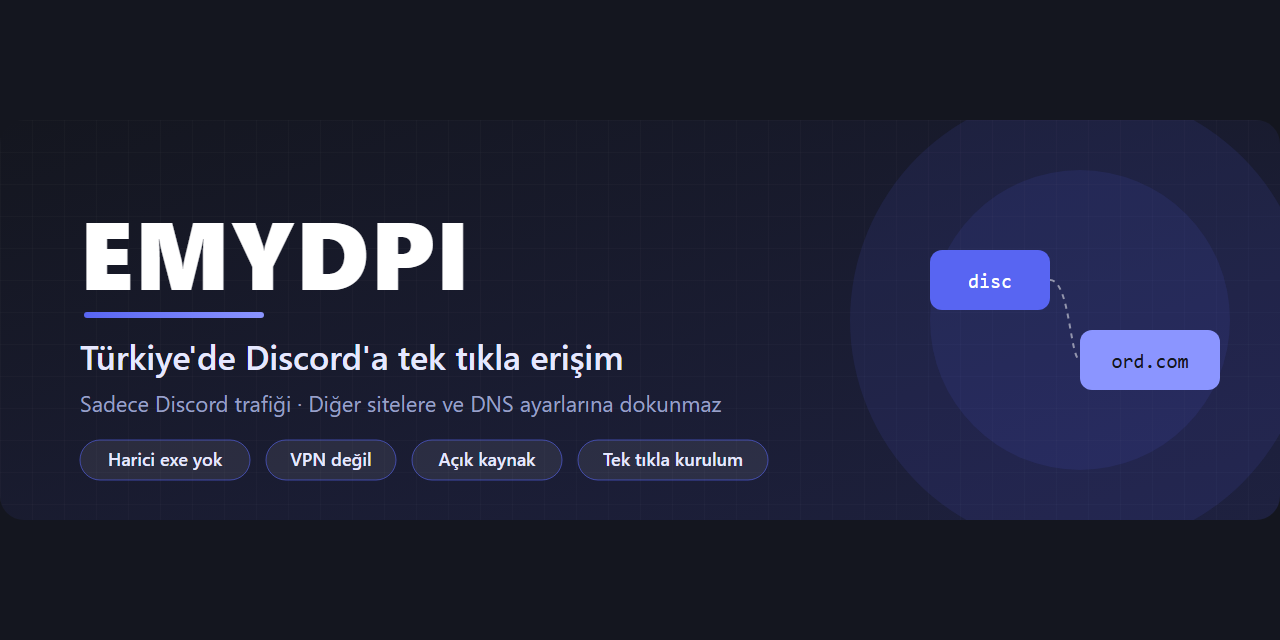
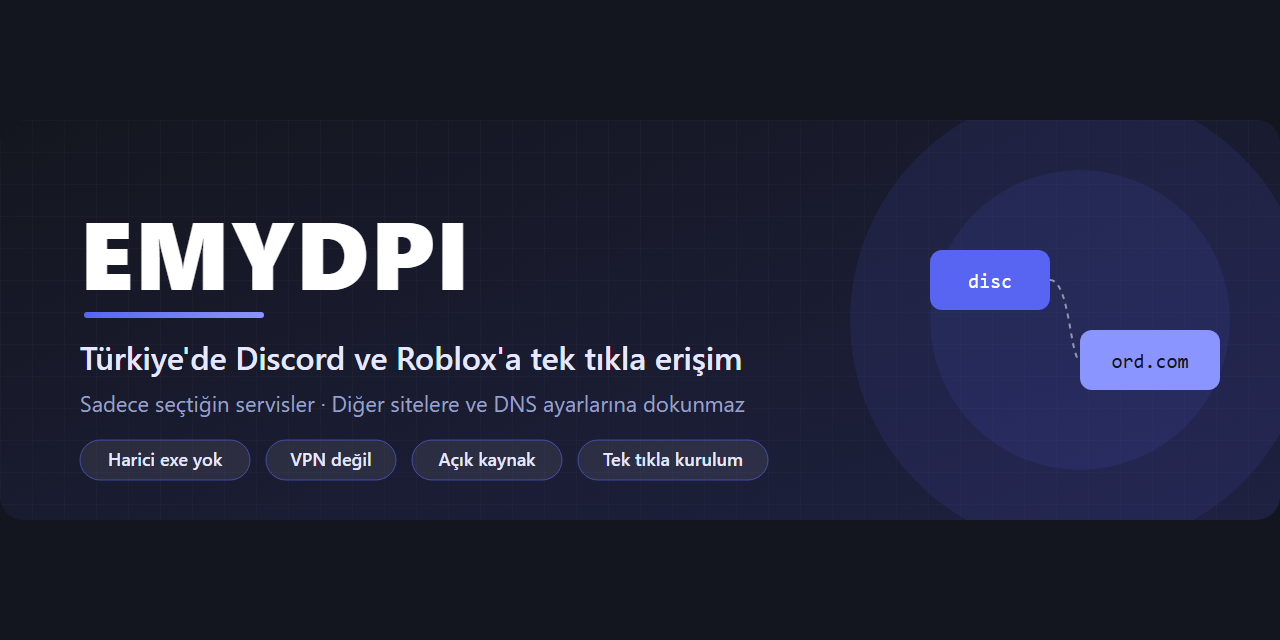
v1.1.0: Roblox destegi ve servis secimi
- Roblox alan adlari (62) eklendi; Roblox da SNI ile engellendigi icin
  ayni proxy yontemi calisiyor (60/62 adres proxy uzerinden test edildi,
  kalan 2'si sunucu sertifikasi kaynakli, engelle ilgisiz)
- [7] Servis sec: Discord + Roblox / sadece Discord / sadece Roblox
- Kurulu servisler hosts blogunda saklaniyor, durum ekraninda gosteriliyor
- README, gorseller ve CHANGELOG guncellendi

Changed region(s): [[0.0625, 0.5312, 0.5938, 0.6562]]

diff --git a/README.md b/README.md
@@ -1,5 +1,5 @@
 <p align="center">
-  <img src="assets/banner.svg" alt="EMYDPI: Türkiye'de Discord'a tek tıkla erişim" width="100%">
+  <img src="assets/banner.svg" alt="EMYDPI: Türkiye'de Discord ve Roblox'a tek tıkla erişim" width="100%">
 </p>
 
 <p align="center">
@@ -11,6 +11,11 @@
 </p>
 
 <p align="center">
+  <img src="https://img.shields.io/badge/Discord-%E2%9C%93-5865F2?style=flat-square&logo=discord&logoColor=white" alt="Discord">
+  <img src="https://img.shields.io/badge/Roblox-%E2%9C%93-000000?style=flat-square&logo=roblox&logoColor=white" alt="Roblox">
+</p>
+
+<p align="center">
   <a href="https://github.com/yigitislamoglu/EMYDPI/releases/latest/download/EMYDPI.zip">
     <img src="https://img.shields.io/badge/%E2%AC%87%20%C4%B0ND%C4%B0R-EMYDPI.zip-5865F2?style=for-the-badge" alt="İndir" height="42">
   </a>
@@ -18,15 +23,16 @@
 
 ---
 
-**EMYDPI**, Türkiye'deki Discord engelini aşmak için yazılmış küçük ve açık kaynaklı bir araçtır. Sadece Discord
-trafiğini etkiler; diğer sitelere, DNS ayarlarına ve internet hızına dokunmaz.
+**EMYDPI**, Türkiye'deki **Discord** ve **Roblox** engellerini aşmak için yazılmış küçük ve açık kaynaklı bir araçtır.
+Sadece seçtiğin servislerin trafiğini etkiler; diğer sitelere, DNS ayarlarına ve internet hızına dokunmaz.
 
 | | |
 |---|---|
+| 🎮 **Discord + Roblox** | İkisi birden ya da sadece biri. Kurulumda sen seçersin. |
 | 🧩 **Harici dosya yok** | `.exe`, `.dll`, sürücü yok. Sadece Windows'ta zaten bulunan PowerShell; tüm kod açık ve okunabilir. |
-| 🔒 **VPN değil** | Trafiğin başka bir sunucuya gitmez, doğrudan Discord'a bağlanırsın. Gecikme artmaz. |
-| 🎯 **Sadece Discord** | Yalnızca Discord alan adları yönlendirilir, geri kalan her şey normal yolundan gider. |
-| 🛡 **Discord'a dokunmaz** | DLL enjekte etmez, Discord'un dosyalarını değiştirmez. Discord güncellemeleri sorun çıkarmaz. |
+| 🔒 **VPN değil** | Trafiğin başka bir sunucuya gitmez, doğrudan Discord'a / Roblox'a bağlanırsın. Ping artmaz. |
+| 🎯 **Sadece seçtiğin servisler** | Yalnızca o servislerin alan adları yönlendirilir, geri kalan her şey normal yolundan gider. |
+| 🛡 **Uygulamalara dokunmaz** | DLL enjekte etmez, Discord'un veya Roblox'un dosyalarını değiştirmez. Güncellemeler sorun çıkarmaz. |
 | ⚡ **Kur ve unut** | Bilgisayar her açıldığında arka planda, pencere açmadan kendiliğinden çalışır. |
 
 ## 🚀 Kurulum
@@ -34,9 +40,10 @@ trafiğini etkiler; diğer sitelere, DNS ayarlarına ve internet hızına dokunm
 1. **[EMYDPI.zip](https://github.com/yigitislamoglu/EMYDPI/releases/latest/download/EMYDPI.zip)** dosyasını indir
    ve bir klasöre çıkar (örneğin `Belgeler\EMYDPI`).
 2. `EMYDPI.bat` dosyasına çift tıkla, yönetici iznine **Evet** de.
-3. Menüden **`[1] Kur / Onar`** seç.
+3. Menüden **`[1] Kur / Onar`** seç. Discord ve Roblox birlikte kurulur.
+   Sadece birini istiyorsan **`[7] Servis seç`** kullan.
 
-Hepsi bu. Discord kendiliğinden yeniden açılır ve bağlanır. 🎉
+Hepsi bu. Discord kendiliğinden yeniden açılır; Roblox'u da normal şekilde açabilirsin. 🎉
 
 <p align="center">
   <img src="assets/menu.svg" alt="EMYDPI menüsü" width="640">
@@ -49,18 +56,25 @@ Hepsi bu. Discord kendiliğinden yeniden açılır ve bağlanır. 🎉
 > [!WARNING]
 > **Kaspersky vb. antivirüs kullanıyorsan:** kurulum Windows'un `hosts` dosyasına birkaç satır ekler. Bazı
 > antivirüsler bu dosyayı korur ve **"hosts dosyasına yazma ENGELLENDİ"** hatası görürsün. Antivirüsü birkaç
-> dakikalığına duraklat, `[1]`'i tekrar çalıştır, sonra antivirüsü geri aç. Bu sadece kurulum ve kaldırmada gerekir.
+> dakikalığına duraklat, kurulumu tekrar çalıştır, sonra antivirüsü geri aç. Bu sadece kurulum, servis değiştirme ve
+> kaldırmada gerekir.
+
+### v1.0.0'dan güncelliyorsan
+
+Yeni ZIP'i **aynı klasöre** çıkarıp dosyaların üzerine yaz. Sonra `EMYDPI.bat` → **`[7] Servis seç`** →
+**`[1] Discord + Roblox`** seç. (`[1] Kur / Onar` mevcut ayarını korur, yani sadece Discord kalır.)
 
 ## 📋 Menü
 
 | Seçenek | Ne yapar |
 |---|---|
-| `[1] Kur / Onar` | hosts kayıtlarını ekler, proxy'yi başlatır, açılışta otomatik çalışmayı ayarlar |
+| `[1] Kur / Onar` | hosts kayıtlarını ekler, proxy'yi başlatır, açılışta otomatik çalışmayı ayarlar. Mevcut servis seçimini korur; ilk kurulumda Discord + Roblox |
 | `[2] Tamamen kaldır` | Her şeyi geri alır: proxy, otomatik başlatma, hosts kayıtları |
 | `[3] Proxy'yi başlat` | Proxy'yi (yeniden) başlatır, Discord'u yeniden açar |
 | `[4] Proxy'yi durdur` | Proxy'yi durdurur (kurulum kalır) |
 | `[5] Log göster` | Son bağlantı kayıtlarını gösterir |
 | `[6] Yedek mod ile kur` | `[1]` işe yaramazsa farklı bir atlatma yöntemiyle kurar |
+| `[7] Servis seç` | Discord + Roblox / sadece Discord / sadece Roblox |
 
 ## 🔍 Nasıl çalışıyor?
 
@@ -68,16 +82,13 @@ Hepsi bu. Discord kendiliğinden yeniden açılır ve bağlanır. 🎉
   <img src="assets/flow.svg" alt="EMYDPI çalışma şeması" width="100%">
 </p>
 
-Türkiye'deki Discord engeli iki katmanlıdır:
+Türkiye'deki engeller **DPI / SNI** tabanlıdır. HTTPS bağlantısı başlarken, gidilmek istenen sitenin adı (SNI)
+şifrelenmemiş olarak gönderilir. Operatör bu paketi okur, içinde `discord.com` veya `roblox.com` görürse bağlantıyı
+keser. Discord'da buna ek olarak DNS engeli de vardır. Bu yüzden sadece DNS'i değiştirmek **yetmez**.
 
-1. **DNS engeli:** Operatörün DNS sunucusu Discord için yanlış adres döndürür.
-2. **DPI / SNI engeli:** HTTPS bağlantısı başlarken, gidilmek istenen sitenin adı (SNI) şifrelenmemiş olarak
-   gönderilir. Operatör bu paketi okur, içinde `discord.com` görürse bağlantıyı keser. Bu yüzden sadece DNS'i
-   değiştirmek **yetmez**.
+EMYDPI şöyle aşar:
 
-EMYDPI ikisini birden aşar:
-
-1. `hosts` dosyası Discord alan adlarını bilgisayarın kendisine (`127.0.0.1`) yönlendirir.
+1. `hosts` dosyası seçilen servislerin alan adlarını bilgisayarın kendisine (`127.0.0.1`) yönlendirir.
 2. Yerel **EMYDPI proxy** bağlantıyı karşılar ve gerçek IP'yi **şifreli DNS (DoH)** ile bulur (1.1.1.1 / 8.8.8.8).
 3. TLS **ClientHello** paketini alan adının ortasından **iki ayrı TLS kaydına** böler ve ayrı paketlerle gönderir.
    DPI alan adının tamamını göremediği için bağlantıyı kesmez.
@@ -85,13 +96,17 @@ EMYDPI ikisini birden aşar:
 Şifreli trafik **çözülmez veya değiştirilmez**; proxy sadece ilk paketi böler, gerisini olduğu gibi aktarır.
 Bu yüzden sertifika kurulumu da gerekmez.
 
+> [!NOTE]
+> **Roblox oyun sunucuları** (oyun içi bağlantı) UDP ile doğrudan IP'ye bağlanır ve şu an engelli değildir; proxy'den
+> geçmesine gerek yoktur. EMYDPI Roblox'un giriş, site, API ve oyuna katılma bağlantılarını açar.
+
 <details>
 <summary><b>Dosyalar ve sisteme yapılan değişiklikler</b></summary>
 
 | Dosya | Görev |
 |---|---|
 | [`EMYDPI.bat`](EMYDPI.bat) | Menü, yönetici izni ister |
-| [`emydpi.ps1`](emydpi.ps1) | Kurulum/kaldırma, hosts ve zamanlanmış görev yönetimi |
+| [`emydpi.ps1`](emydpi.ps1) | Kurulum/kaldırma, servis listeleri, hosts ve zamanlanmış görev yönetimi |
 | [`emydpi-proxy.cs`](emydpi-proxy.cs) | Proxy'nin kendisi (C#, çalışırken PowerShell tarafından derlenir) |
 | [`emydpi-proxy.ps1`](emydpi-proxy.ps1) | Proxy'yi derleyip başlatır |
 
@@ -104,8 +119,14 @@ Bu yüzden sertifika kurulumu da gerekmez.
 
 `[2] Tamamen kaldır` bunların hepsini geri alır.
 
-**Yönlendirilen alan adları:** `discord.com`, `discord.gg`, `discordapp.com`, `discordapp.net`, `discord.media`,
-`discordcdn.com` ve bunların alt alan adları. Tam liste [`emydpi.ps1`](emydpi.ps1) içindedir.
+**Yönlendirilen alan adları:**
+
+- **Discord:** `discord.com`, `discord.gg`, `discordapp.com`, `discordapp.net`, `discord.media`, `discordcdn.com`
+  ve alt alan adları (26 adres)
+- **Roblox:** `roblox.com`, `www.roblox.com`, `apis.roblox.com`, `auth.roblox.com`, `gamejoin.roblox.com`,
+  `assetdelivery.roblox.com` ve diğer API adresleri (62 adres). `rbxcdn.com` engelli olmadığı için eklenmez.
+
+Tam liste [`emydpi.ps1`](emydpi.ps1) içindedir.
 
 </details>
 
@@ -119,6 +140,16 @@ Hiç satır yoksa `[3] Proxy'yi başlat`'ı dene.
 </details>
 
 <details>
+<summary><b>Roblox açılmıyor veya oyuna girmiyor</b></summary>
+
+1. `[5] Log göster`'de `roblox.com` satırları görünüyor mu bak. Görünmüyorsa `[7] Servis seç` ile Roblox'un kurulu
+   olduğundan emin ol.
+2. Roblox'u görev yöneticisinden tamamen kapatıp yeniden aç.
+3. Logda `cozulemedi` veya `hata` yazan bir Roblox adresi varsa, ya da hiç görünmeyen bir adres yüzünden takılıyorsa
+   lütfen bir [Issue](https://github.com/yigitislamoglu/EMYDPI/issues) aç. Listeye ekleyelim.
+</details>
+
+<details>
 <summary><b>"443 portunu başka bir program kullanıyor"</b></summary>
 
 Bilgisayarında 443 portunu dinleyen bir program var (yerel web sunucusu, IIS, XAMPP, bazı VPN'ler vb.).
@@ -126,13 +157,13 @@ O programı kapatıp `[3]`'ü çalıştır.
 </details>
 
 <details>
-<summary><b>Discord'a erişim tamamen gitti</b></summary>
+<summary><b>Discord'a / Roblox'a erişim tamamen gitti</b></summary>
 
-Proxy kapalıyken hosts kayıtları duruyorsa Discord bağlanamaz. `[3]` ile proxy'yi başlat ya da `[2]` ile tamamen kaldır.
+Proxy kapalıyken hosts kayıtları duruyorsa bağlantı olmaz. `[3]` ile proxy'yi başlat ya da `[2]` ile tamamen kaldır.
 </details>
 
 <details>
-<summary><b>Sesli sohbet çalışmıyor</b></summary>
+<summary><b>Discord'da sesli sohbet çalışmıyor</b></summary>
 
 Ses sunucuları sürekli değişen adlar kullandığı için proxy'den geçmez. Bu yazıldığı tarihte sesli sohbet engelli
 değildi; ileride engellenirse lütfen bir [Issue](https://github.com/yigitislamoglu/EMYDPI/issues) aç.
@@ -148,17 +179,23 @@ sırasında da kısa süre duraklatman gerekir.
 ## ❓ Sık sorulan sorular
 
 **Güvenli mi?** Tüm kod açık ve birkaç yüz satır. İnternetten hiçbir dosya indirmez, hiçbir şey çalıştırmaz.
-Tek dış bağlantısı, Discord'un gerçek IP adresini öğrenmek için Cloudflare (1.1.1.1) ve Google (8.8.8.8) şifreli
-DNS sunucularına yapılan sorgulardır.
+Tek dış bağlantısı, gerçek IP adreslerini öğrenmek için Cloudflare (1.1.1.1) ve Google (8.8.8.8) şifreli DNS
+sunucularına yapılan sorgulardır.
 
-**Oyunlarda ping'imi artırır mı?** Hayır. VPN değildir; Discord dışındaki trafiğe dokunmaz. Discord trafiği de
-doğrudan Discord'a gider.
+**Oyunlarda ping'imi artırır mı?** Hayır. VPN değildir; seçilen servisler dışındaki trafiğe dokunmaz. Roblox oyun
+trafiği zaten proxy'den geçmez, doğrudan sunucuya gider.
+
+**Roblox hesabım banlanır mı?** EMYDPI Roblox istemcisine veya oyunlara hiçbir şekilde müdahale etmez; sadece
+bağlantının operatör tarafından kesilmesini engeller. Roblox açısından normal bir bağlantıdan farkı yoktur.
 
 **GoodbyeDPI / zapret'ten farkı ne?** Onlar WinDivert sürücüsüyle tüm sistemin trafiğini işler. EMYDPI sürücü
-kurmaz, sadece Discord bağlantılarına müdahale eder.
+kurmaz, sadece seçilen servislerin bağlantılarına müdahale eder.
 
-**Tarayıcıdan Discord'a girebilir miyim?** Evet. Tarayıcıda açılmazsa tarayıcının "Güvenli DNS" (DoH) ayarını
-kapatıp tekrar dene; bazı tarayıcılar bu ayar açıkken `hosts` dosyasını atlayabilir.
+**Tarayıcıdan girebilir miyim?** Evet, discord.com ve roblox.com tarayıcıdan da açılır. Açılmazsa tarayıcının
+"Güvenli DNS" (DoH) ayarını kapatıp tekrar dene; bazı tarayıcılar bu ayar açıkken `hosts` dosyasını atlayabilir.
+
+**Başka bir site/oyun eklenebilir mi?** Aynı yöntemle SNI engeli olan başka servisler de eklenebilir.
+İsteğini [Issue](https://github.com/yigitislamoglu/EMYDPI/issues) olarak aç.
 
 ## 🤝 Katkı
 
@@ -169,7 +206,7 @@ Projeyi faydalı bulduysan ⭐ vermeyi unutma.
 ## ⚖ Sorumluluk reddi
 
 Bu proje eğitim amaçlıdır ve kişisel kullanım içindir. Kullanımından doğabilecek her türlü sorumluluk kullanıcıya
-aittir. Proje Discord Inc. ile hiçbir şekilde bağlantılı değildir.
+aittir. Proje Discord Inc. veya Roblox Corporation ile hiçbir şekilde bağlantılı değildir.
 
 ## 📄 Lisans
 

diff --git a/CHANGELOG.md b/CHANGELOG.md
@@ -1,5 +1,18 @@
 # Değişiklik Günlüğü
 
+## [1.1.0] - 2026-11-07
+
+### Yeni
+- 🎮 **Roblox desteği.** Roblox'un site, giriş, API ve oyuna katılma bağlantıları (62 alan adı) artık açılıyor.
+  Roblox da Discord gibi SNI tabanlı engellendiği için aynı yöntem kullanılır.
+- **`[7] Servis seç`:** Discord + Roblox, sadece Discord veya sadece Roblox.
+- Durum ekranında kurulu servisler gösteriliyor.
+
+### Değişenler
+- İlk kurulum varsayılan olarak Discord + Roblox kurar. `[1] Kur / Onar` mevcut servis seçimini korur.
+- v1.0.0 kurulumları otomatik olarak "Discord" olarak tanınır.
+- Servis seçimi değişmedikçe `hosts` dosyasına dokunulmaz (antivirüs duraklatmaya gerek kalmaz).
+
 ## [1.0.0] - 2026-11-07
 
 İlk sürüm.
@@ -13,4 +26,5 @@
 - Tek menülü `.bat`: kur, kaldır, başlat, durdur, log.
 - Antivirüs `hosts` dosyasını koruyorsa anlaşılır hata mesajı verir; `hosts` zaten doğruysa dosyaya dokunmaz.
 
+[1.1.0]: https://github.com/yigitislamoglu/EMYDPI/releases/tag/v1.1.0
 [1.0.0]: https://github.com/yigitislamoglu/EMYDPI/releases/tag/v1.0.0
